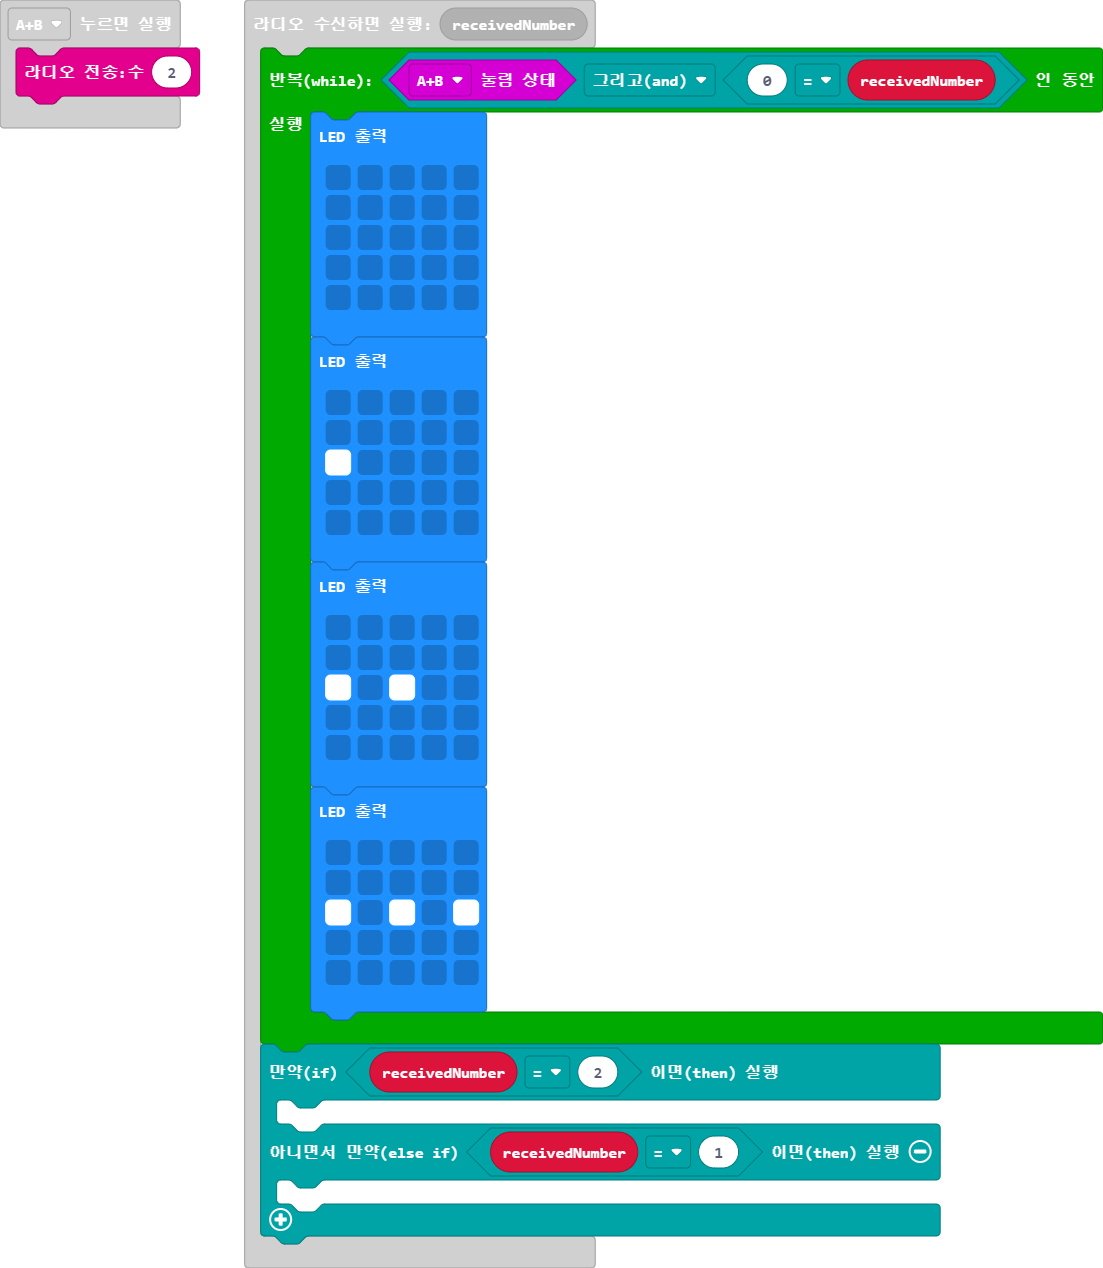
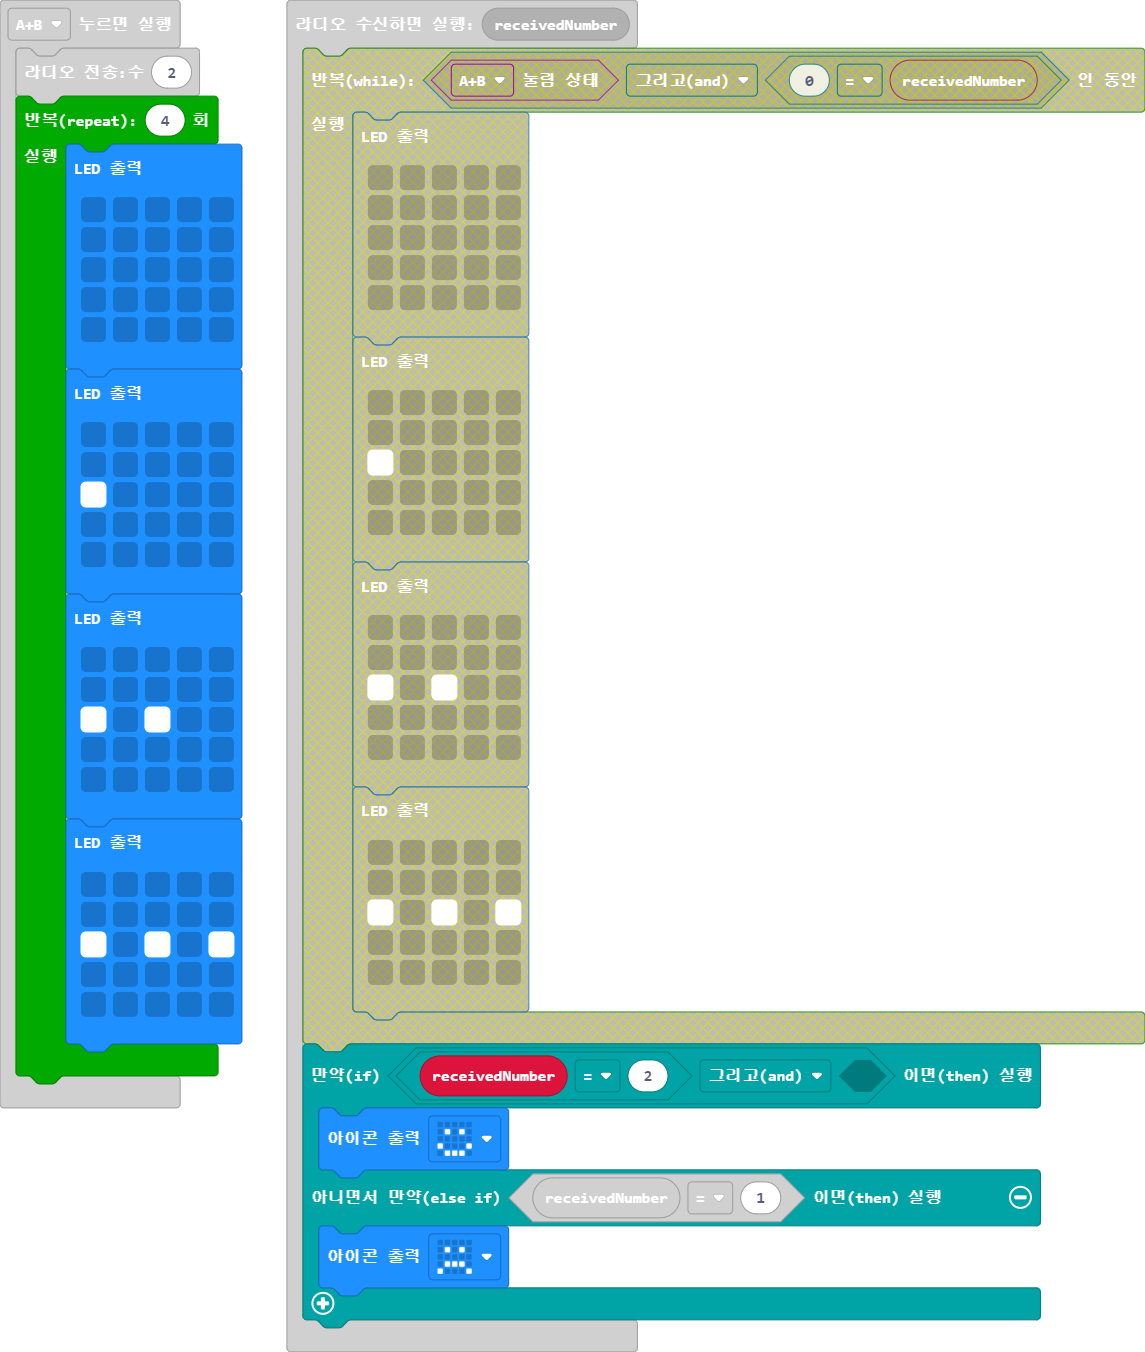
main.blocks, main.ts 업데이트하기

diff --git a/main.ts b/main.ts
@@ -1,5 +1,29 @@
 radio.onReceivedNumber(function (receivedNumber) {
-    while (input.buttonIsPressed(Button.AB) && 0 == receivedNumber) {
+    if (receivedNumber == 2 && false) {
+        basic.showIcon(IconNames.Happy)
+    } else if (receivedNumber == 1) {
+        basic.showIcon(IconNames.Sad)
+    }
+})
+input.onButtonPressed(Button.A, function () {
+    호감도 += randint(0, 3)
+    if (10 <= 호감도) {
+        for (let index = 0; index < 2; index++) {
+            basic.showIcon(IconNames.Heart)
+            basic.clearScreen()
+        }
+    } else {
+        for (let index = 0; index < 2; index++) {
+            basic.showIcon(IconNames.SmallHeart)
+            basic.clearScreen()
+        }
+    }
+    radio.sendNumber(1)
+    basic.pause(3000)
+})
+input.onButtonPressed(Button.AB, function () {
+    radio.sendNumber(2)
+    for (let index = 0; index < 4; index++) {
         basic.showLeds(`
             . . . . .
             . . . . .
@@ -29,30 +53,6 @@ radio.onReceivedNumber(function (receivedNumber) {
             . . . . .
             `)
     }
-    if (receivedNumber == 2) {
-    	
-    } else if (receivedNumber == 1) {
-    	
-    }
-})
-input.onButtonPressed(Button.A, function () {
-    호감도 += randint(0, 3)
-    if (10 <= 호감도) {
-        for (let index = 0; index < 2; index++) {
-            basic.showIcon(IconNames.Heart)
-            basic.clearScreen()
-        }
-    } else {
-        for (let index = 0; index < 2; index++) {
-            basic.showIcon(IconNames.SmallHeart)
-            basic.clearScreen()
-        }
-    }
-    radio.sendNumber(1)
-    basic.pause(3000)
-})
-input.onButtonPressed(Button.AB, function () {
-    radio.sendNumber(2)
 })
 input.onButtonPressed(Button.B, function () {
     basic.showString("" + (호감도))
